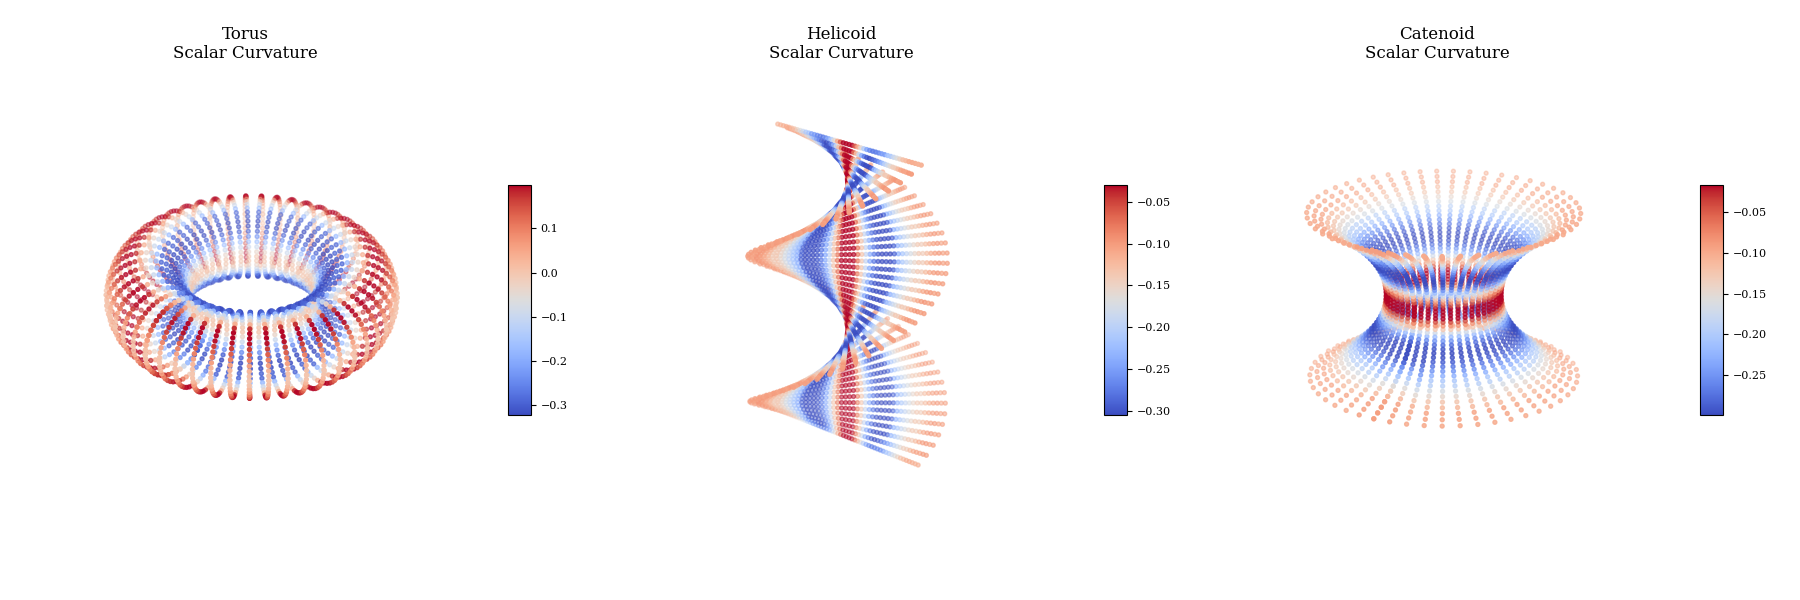
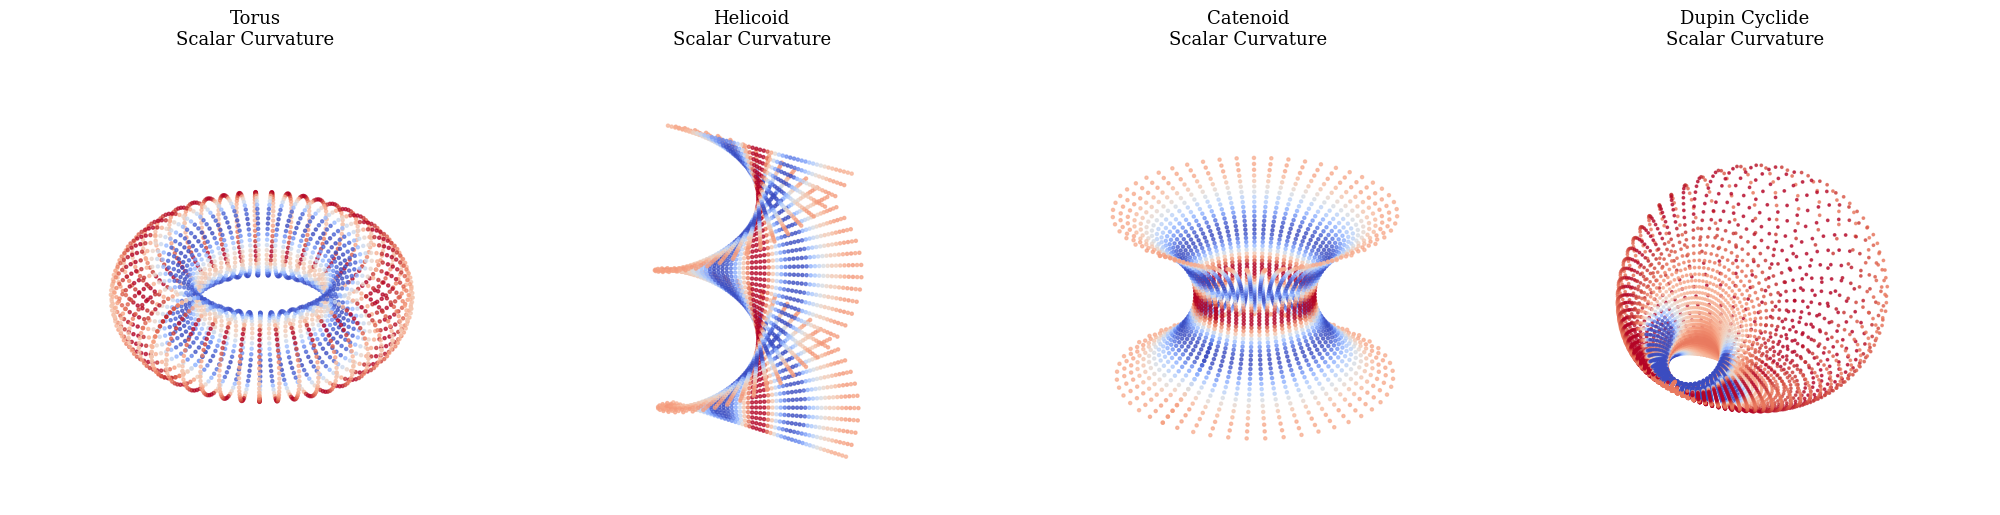
doc

diff --git a/test/curvature.py b/test/curvature.py
@@ -1,38 +1,61 @@
 import sys
 from pathlib import Path
+
 import numpy as np
 import matplotlib.pyplot as plt
-from matplotlib.colors import Normalize
+from matplotlib.colors import Normalize, PowerNorm
 
 sys.path.append(str(Path(__file__).resolve().parent.parent))
 from riemannpy.manifold import Manifold
 
 def sample_torus(R=3, r=1.2, n=50):
+    
     theta = np.linspace(0, 2 * np.pi, n)
     phi = np.linspace(0, 2 * np.pi, n)
     theta, phi = np.meshgrid(theta, phi)
+    
     x = (R + r * np.cos(theta)) * np.cos(phi)
     y = (R + r * np.cos(theta)) * np.sin(phi)
     z = r * np.sin(theta)
+    
     return np.vstack([x.flatten(), y.flatten(), z.flatten()]).T
 
 def sample_helicoid(n=50):
+    
     u = np.linspace(-2, 2, n)
     v = np.linspace(0, 2 * np.pi, n)
     u, v = np.meshgrid(u, v)
+    
     x = u * np.cos(v)
     y = u * np.sin(v)
     z = v
+    
     return np.vstack([x.flatten(), y.flatten(), z.flatten()]).T
 
 def sample_catenoid(n=50):
-    # Catenoid: x = cosh(v)cos(u), y = cosh(v)sin(u), z = v
+    
     u = np.linspace(0, 2 * np.pi, n)
     v = np.linspace(-1.5, 1.5, n)
     u, v = np.meshgrid(u, v)
+    
     x = np.cosh(v) * np.cos(u)
     y = np.cosh(v) * np.sin(u)
     z = v
+    
+    return np.vstack([x.flatten(), y.flatten(), z.flatten()]).T
+
+def sample_dupin_cyclide(a=1.5, b=1.2, d=1.0, n=70):
+    
+    c = np.sqrt(a**2 - b**2)
+    u = np.linspace(0, 2 * np.pi, n)
+    v = np.linspace(0, 2 * np.pi, n)
+    u, v = np.meshgrid(u, v)
+    denom = a - c * np.cos(u) * np.cos(v)
+    
+    x = (d * (c - a * np.cos(u) * np.cos(v)) + b**2 * np.cos(u)) / denom
+    y = (b * np.sin(u) * (a - d * np.cos(v))) / denom
+    z = (b * np.sin(v) * (c * np.cos(u) - d)) / denom
+    
     return np.vstack([x.flatten(), y.flatten(), z.flatten()]).T
 
 if __name__ == "__main__":
@@ -40,43 +63,56 @@ if __name__ == "__main__":
     surfaces = {
         "Torus": sample_torus(),
         "Helicoid": sample_helicoid(),
-        "Catenoid": sample_catenoid()
+        "Catenoid": sample_catenoid(),
+        "Dupin Cyclide": sample_dupin_cyclide()
     }
 
-    plt.rcParams.update({'font.family': 'serif', 'font.size': 8})
-    fig = plt.figure(figsize=(18, 6))
+    plt.rcParams.update({'font.family': 'serif', 'font.size': 9})
+    fig = plt.figure(figsize=(20, 6))
 
     for i, (name, pts) in enumerate(surfaces.items(), 1):
+        
+        # Manifold and curvature
         manifold = Manifold(pts, k=30)
         curv = manifold.scalar_curvature
 
-        ax = fig.add_subplot(1, 3, i, projection='3d')
+        # Plots
+        ax = fig.add_subplot(1, 4, i, projection='3d')
         
-        vmin, vmax = np.percentile(curv, [5, 95])
-        norm = Normalize(vmin=vmin, vmax=vmax)
+        # Custom normalization
+        if name == "Dupin Cyclide":
+            vmin, vmax = np.percentile(curv, [15, 85])
+            norm = PowerNorm(gamma=0.7, vmin=vmin, vmax=vmax)
+            s_size = 3
+        else:
+            vmin, vmax = np.percentile(curv, [5, 95])
+            norm = Normalize(vmin=vmin, vmax=vmax)
+            s_size = 5
 
         sc = ax.scatter(
             pts[:, 0], pts[:, 1], pts[:, 2],
-            c=curv, cmap='coolwarm', s=8, norm=norm, antialiased=True
+            c=curv, 
+            cmap='coolwarm', 
+            s=s_size, 
+            norm=norm, 
+            antialiased=True,
+            alpha=0.7
         )
 
-        ax.set_title(f"{name}\nScalar Curvature", fontsize=12)
-        cbar = plt.colorbar(sc, ax=ax, shrink=0.4, aspect=10)
+        ax.set_title(f"{name}\nScalar Curvature", fontsize=13, pad=10)
         
-        ax.set_box_aspect([
+        extents = np.array([
             pts[:, 0].max() - pts[:, 0].min(),
             pts[:, 1].max() - pts[:, 1].min(),
             pts[:, 2].max() - pts[:, 2].min()
         ])
+        ax.set_box_aspect(extents)
         ax.set_axis_off()
         
-        # Specific views for better geometry appreciation
-        if name == "Catenoid":
-            ax.view_init(elev=20, azim=30)
-        elif name == "Helicoid":
-            ax.view_init(elev=20, azim=-45)
-        else:
-            ax.view_init(elev=35, azim=45)
+        if name == "Catenoid": ax.view_init(elev=25, azim=40)
+        elif name == "Helicoid": ax.view_init(elev=30, azim=-60)
+        elif name == "Dupin Cyclide": ax.view_init(elev=55, azim=58)
+        else: ax.view_init(elev=35, azim=45)
 
     plt.tight_layout()
     plt.show()

diff --git a/test/heat_equation.py b/test/heat_equation.py
@@ -52,11 +52,12 @@ if __name__ == "__main__":
     z_range = [points[:, 2].min(), points[:, 2].max()]
 
     for i, (step, state_values) in enumerate(history):
+        
         ax = fig.add_subplot(1, 5, i + 1, projection='3d')
         
         scatter = ax.scatter(
             manifold.points[:, 0], manifold.points[:, 1], manifold.points[:, 2], 
-            c=state_values, cmap='gist_heat', s=1.0, 
+            c=state_values, cmap='gist_heat', s=6.0, 
             vmin=v_min, vmax=v_max, antialiased=True
         )
         
@@ -69,10 +70,10 @@ if __name__ == "__main__":
         ax.set_title(f"Step {step}\n$t = {step * DELTA_T}s$", pad=-15, fontsize=12)
         ax.view_init(elev=15, azim=90)
 
-    cbar_ax = fig.add_axes([0.93, 0.25, 0.01, 0.5])
-    fig.colorbar(scatter, cax=cbar_ax).set_label('Temperature ($\phi$)', rotation=270, labelpad=15)
+    #cbar_ax = fig.add_axes([0.93, 0.25, 0.01, 0.5])
+    #fig.colorbar(scatter, cax=cbar_ax).set_label('Temperature ($\phi$)', rotation=270, labelpad=15)
     
-    plt.suptitle("Heat Equation Diffusion on the Stanford Bunny Manifold", fontsize=16, y=0.95)
+    plt.suptitle("Heat Equation on the Stanford Bunny Manifold", fontsize=16, y=0.95)
     plt.subplots_adjust(left=0.01, right=0.91, wspace=0.0, hspace=0.0)
     
     plt.show()

diff --git a/test/wave_equation.py b/test/wave_equation.py
@@ -69,11 +69,12 @@ if __name__ == "__main__":
     z_range = [points[:, 2].min(), points[:, 2].max()]
 
     for i, (step, state_values) in enumerate(history):
+        
         ax = fig.add_subplot(1, 5, i + 1, projection='3d')
         
         scatter = ax.scatter(
             manifold.points[:, 0], manifold.points[:, 1], manifold.points[:, 2], 
-            c=state_values, cmap='jet', s=1.0, 
+            c=state_values, cmap='jet', s=6.0, 
             vmin=-v_limit, vmax=v_limit, antialiased=True
         )
         
@@ -85,9 +86,9 @@ if __name__ == "__main__":
         ax.set_title(f"Step {step}\n$t = {step * DELTA_T}s$", pad=-15, fontsize=12)
         ax.view_init(elev=15, azim=90)
 
-    cbar_ax = fig.add_axes([0.93, 0.25, 0.01, 0.5])
-    fig.colorbar(scatter, cax=cbar_ax).set_label('Displacement ($u$)', rotation=270, labelpad=15)
+    #cbar_ax = fig.add_axes([0.93, 0.25, 0.01, 0.5])
+    #fig.colorbar(scatter, cax=cbar_ax).set_label('Displacement ($u$)', rotation=270, labelpad=15)
     
-    plt.suptitle("Wave Equation Propagation on the Stanford Bunny Manifold", fontsize=16, y=0.95)
+    plt.suptitle("Wave Equation on the Stanford Bunny Manifold", fontsize=16, y=0.95)
     plt.subplots_adjust(left=0.01, right=0.91, wspace=0.0, hspace=0.0)
     plt.show()
